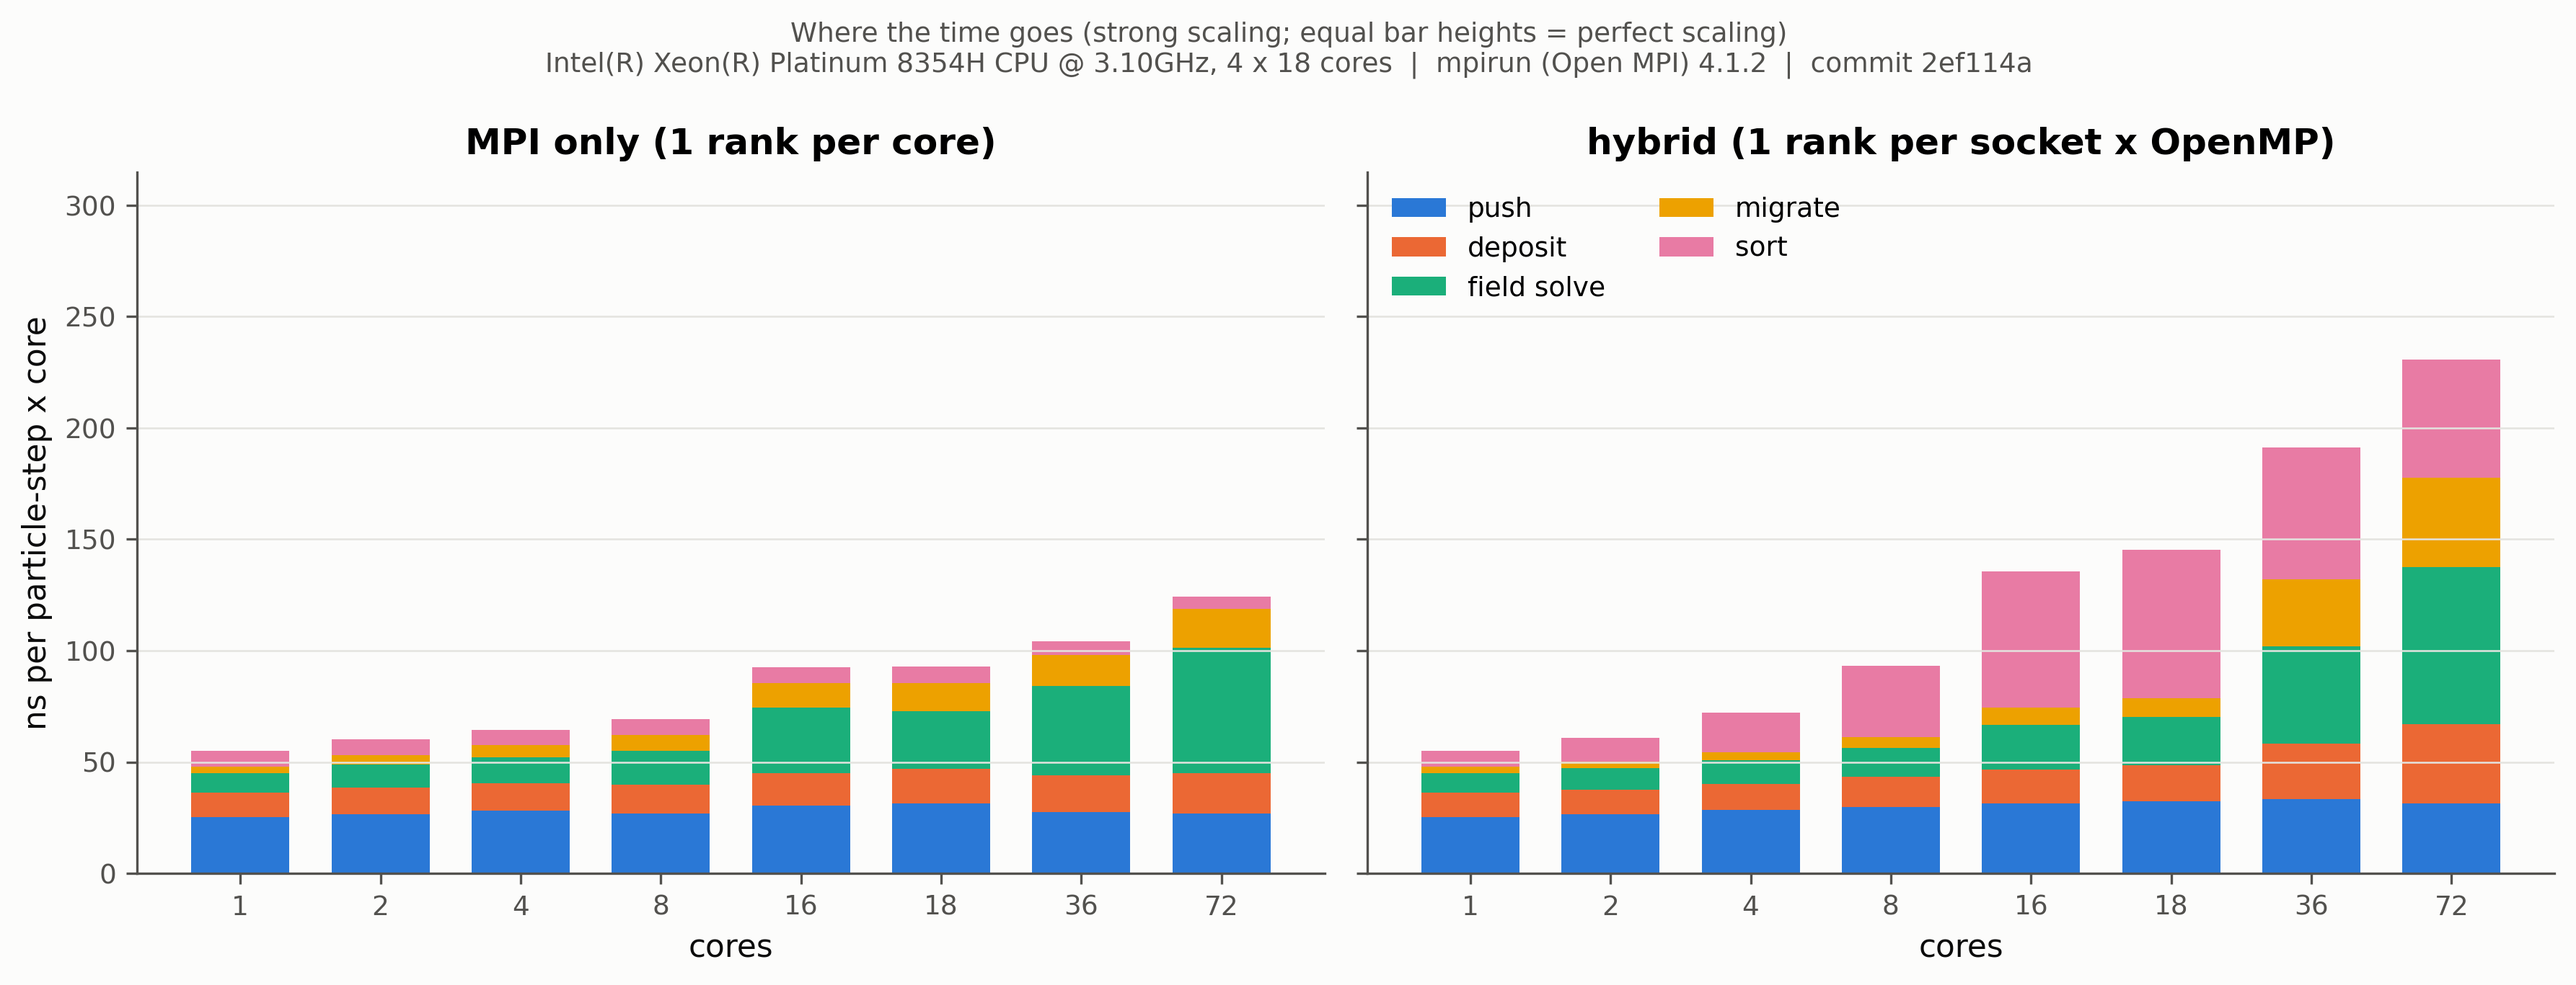
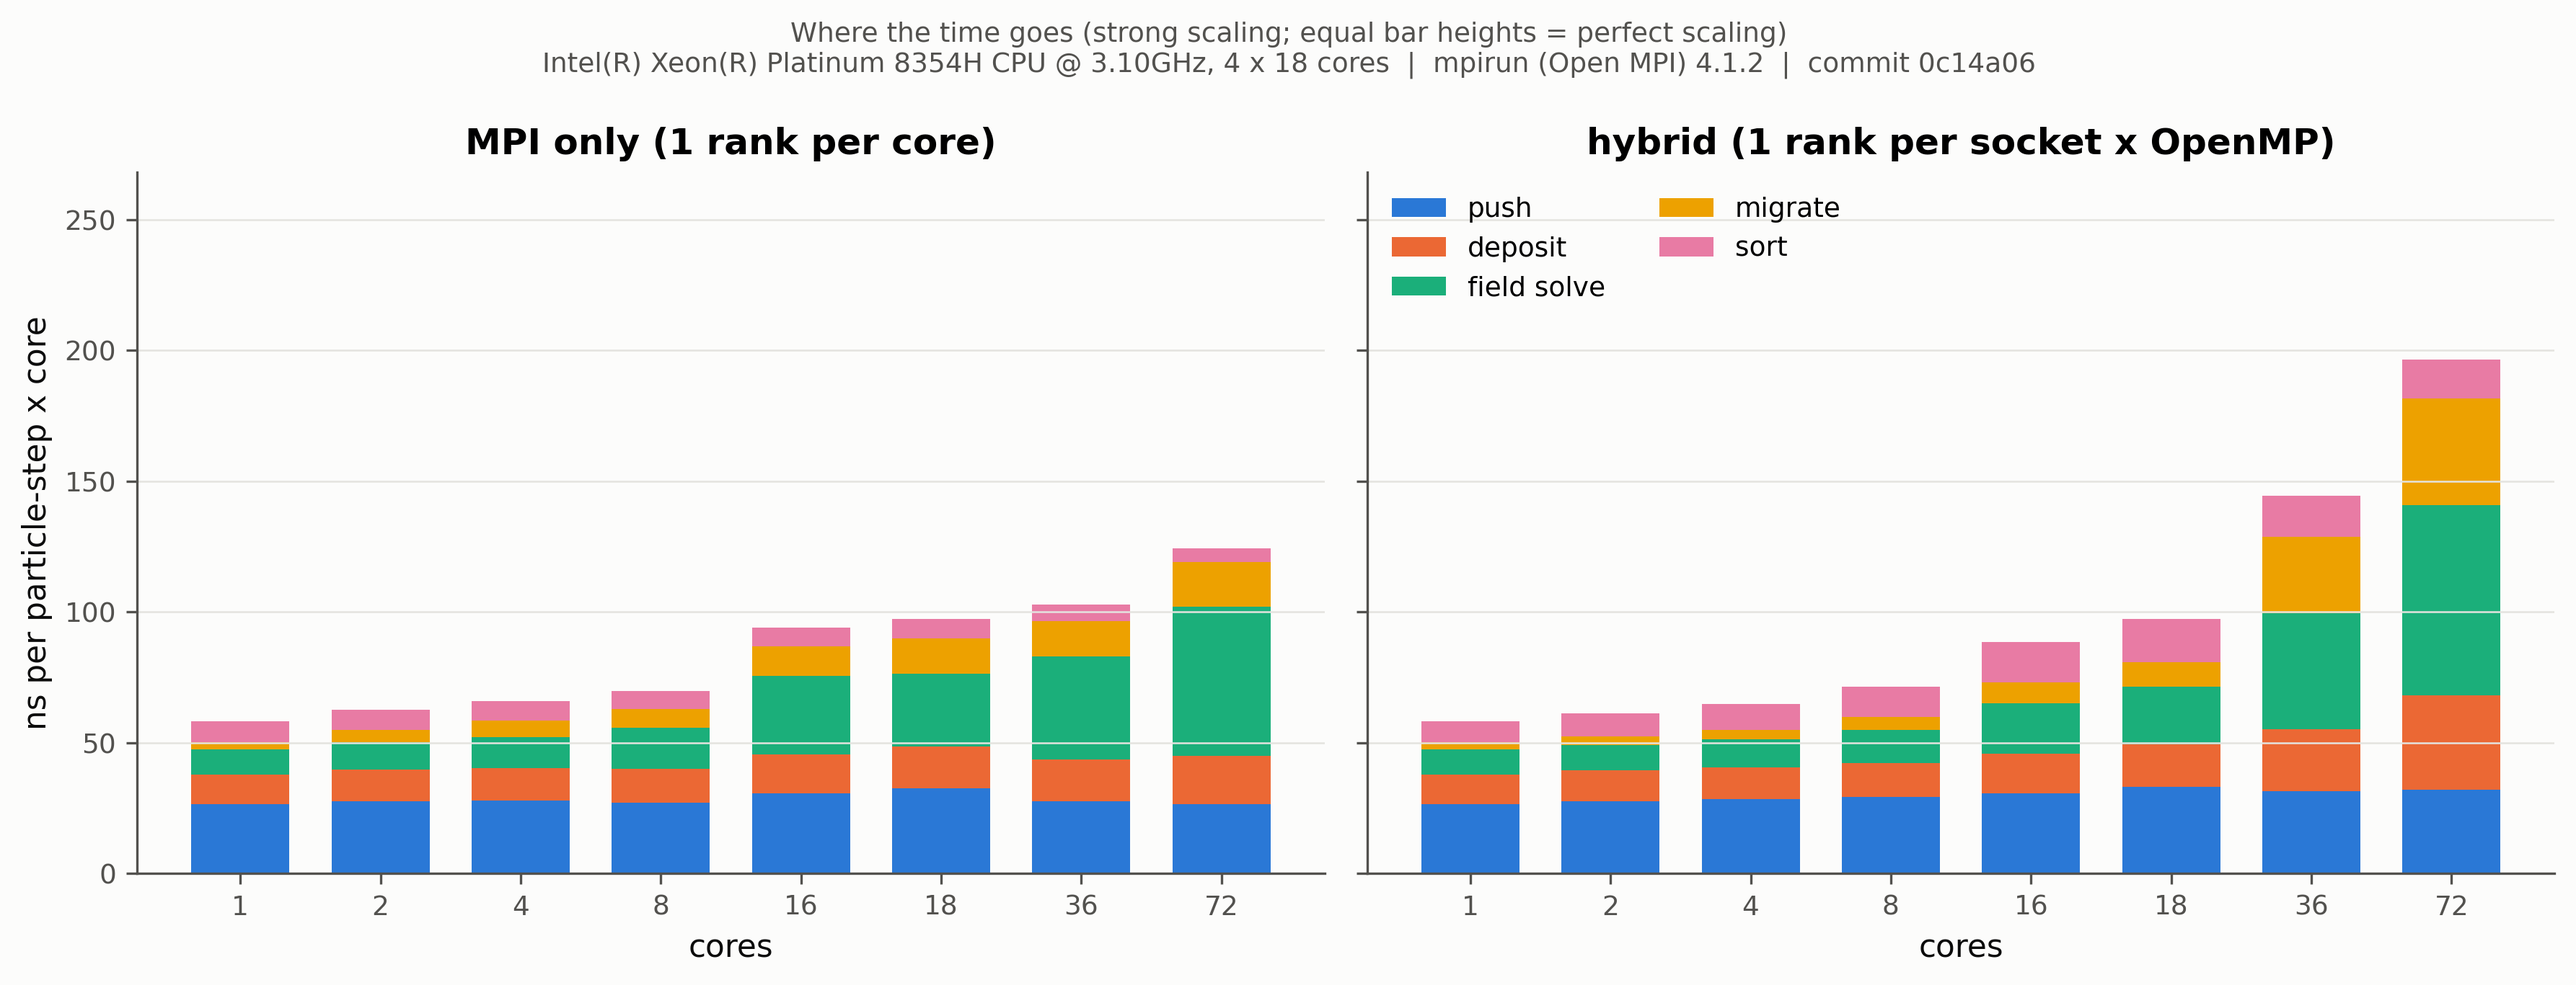
Scaling sweep with the parallel sort; before/after comparison
Full strong and weak sweep on the 4 x 18-core Xeon Platinum 8354H at
0c14a06 (machine otherwise idle). The MPI-only points, unaffected by the
sort change, reproduce the previous sweep to within 1-5% (159 vs 160 ms
at 72 cores). With the parallel sort, one rank of 18 threads steps in
516 instead of 771 ms, hybrid on 72 cores in 249 instead of 293 ms and
OpenMP-only on 72 threads in 520 instead of 702 ms; MPI only remains
fastest across sockets (160 ms, 35x over one core).

The previous results move to before_2ef114a/ and feed the new
scaling_before_after.png. docs/performance.md and the README are updated
to the new numbers; the remaining hybrid gap across sockets is traced to
the serial handling of migrating particles and the full-subdomain
reduction of the per-thread deposition buffers.

diff --git a/docs/performance.md b/docs/performance.md
@@ -38,8 +38,10 @@ Three ways of using the cores are compared:
   OpenMP only up to 18 cores);
 * **OpenMP only**: a single rank whose threads span all sockets.
 
-The machine is shared; each point is the faster of two runs. Points repeated in a separate
-session agreed to within 3–8 %.
+The machine is shared; each point is the faster of two runs, taken while the machine was otherwise
+idle. The MPI-only points, which the sort change below does not affect, reproduced an earlier sweep
+to within 1–5 % (159 vs 160 ms at 72 cores); the single-core reference differed by 6 % between the
+two sessions (5.26 vs 5.57 s), which shifts speed-ups but not absolute times.
 
 ## Strong scaling
 
@@ -48,15 +50,16 @@ session agreed to within 3–8 %.
 | cores | MPI only | | hybrid | | OpenMP only | |
 |---:|---:|---:|---:|---:|---:|---:|
 | | ms/step | speed-up | ms/step | speed-up | ms/step | speed-up |
-| 1 | 5263 | 1.0 | 5263 | 1.0 | 5263 | 1.0 |
-| 8 | 807 | 6.5 | 1111 | 4.7 | 1111 | 4.7 |
-| 18 | 475 | 11.1 | 771 | 6.8 | 771 | 6.8 |
-| 36 | 267 | 19.7 | 495 | 10.6 | 675 | 7.8 |
-| 72 | **159** | **33.1** | 293 | 18.0 | 702 | 7.5 |
+| 1 | 5572 | 1.0 | 5572 | 1.0 | 5572 | 1.0 |
+| 8 | 816 | 6.8 | 854 | 6.5 | 854 | 6.5 |
+| 18 | 494 | 11.3 | 516 | 10.8 | 516 | 10.8 |
+| 36 | 262 | 21.3 | 375 | 14.9 | 535 | 10.4 |
+| 72 | **160** | **34.8** | 249 | 22.4 | 520 | 10.7 |
 
-One core advances a particle by one step in 55 ns, including its share of the field solve. With one
-MPI rank per core the code reaches a speed-up of 33 on 72 cores (46 % efficiency); a step with
-96 M particles takes 0.16 s.
+One core advances a particle by one step in 58 ns, including its share of the field solve. With one
+MPI rank per core the code reaches a speed-up of 35 on 72 cores (48 % efficiency); a step with
+96 M particles takes 0.16 s. Within one socket the layouts are close: one rank of 18 threads is 4 %
+slower than 18 MPI ranks.
 
 ## Where the time goes
 
@@ -72,34 +75,34 @@ scaling they would all have the height of the 1-core bar.
   ranks) and a larger coarsest grid that is smoothed rather than solved. The CG iteration count
   stays at 6–7, so convergence is not the issue; the coarse-level work and the global reductions
   per iteration are.
-* **Sort.** The periodic cell sort is a counting sort whose histogram and scatter passes run on one
-  thread per rank. With MPI only, every rank sorts its own particles and the cost shrinks with the
-  rank count. Within a threaded rank it barely shrinks: with one rank of 18 threads, sorting takes
-  353 ms of a 771 ms step. This was the main reason the hybrid layout trailed MPI only; the sort
-  is now threaded (see [Parallel cell sort](#parallel-cell-sort-after-these-measurements)).
-* **Migrate** (moving particles between ranks) grows with the number of rank boundaries but stays
-  at or below 15 % of the step.
+* **Sort.** The periodic cell sort is threaded (see [Parallel cell sort](#parallel-cell-sort)); it
+  now scales in both layouts and takes 4–8 % of the step.
+* **Across sockets, hybrid ranks** spend more time than MPI-only ranks in migration (54 vs 23 ms
+  per step at 72 cores), deposition (48 vs 25 ms) and the field solve (97 vs 76 ms). In the
+  migration, finding the particles that leave a rank is threaded, but their boundary handling,
+  removal, packing and unpacking run on one thread per rank; the threaded deposition sums one
+  buffer per thread over the whole subdomain. Both cost more when a rank is large.
 
 ## Weak scaling
 
 ![Weak scaling](media/scaling_weak.png)
 
-With a fixed 48³ cells and 3.5 M particles per core, the MPI-only time per step rises from 159 ms
-on one core to 371 ms on 72 cores (43 % weak-scaling efficiency). The increase has three parts:
+With a fixed 48³ cells and 3.5 M particles per core, the MPI-only time per step rises from 169 ms
+on one core to 372 ms on 72 cores (45 % weak-scaling efficiency). The increase has three parts:
 
 * **Filling a socket** (8 → 18 cores): push and deposit per core rise by about 25 % (push 82 →
-  102 ms) as the cores of a socket share its memory bandwidth, which no layout can avoid. Across
-  sockets the push stays nearly flat (102 → 109 ms), as each socket brings its own memory channels.
-* **Field solve**: 27 → 122 ms, for the reasons above.
-* **Rank boundaries**: migration grows from 40 to 68 ms and deposition (which includes the halo
-  exchange of the charge density) from 53 to 68 ms between 18 and 72 cores.
+  105 ms) as the cores of a socket share its memory bandwidth, which no layout can avoid. Across
+  sockets the push stays flat (105 → 106 ms), as each socket brings its own memory channels.
+* **Field solve**: 29 → 121 ms, for the reasons above.
+* **Rank boundaries**: migration grows from 41 to 67 ms and deposition (which includes the halo
+  exchange of the charge density) from 55 to 69 ms between 18 and 72 cores.
 
 ## Choosing ranks and threads
 
-* **Prefer one MPI rank per core.** In the measurements above it is 1.8 times faster than one
-  rank per socket with threads, and 4.4 times faster than a single rank on all cores. With the
-  threaded sort, one rank of 18 threads on a socket is about 5 % slower than 18 MPI ranks, so threads are
-  now a reasonable choice when fewer ranks are wanted (memory per rank, fewer halo cells).
+* **Prefer one MPI rank per core across sockets.** At 72 cores it is 1.6 times faster than one rank
+  per socket with threads (160 vs 249 ms), and 3.3 times faster than a single rank on all cores.
+  Within one socket, threads are a reasonable choice (4 % slower than MPI ranks) when fewer ranks
+  are wanted, for example to reduce memory per rank or the number of halo cells.
 * **Never let one rank's threads span sockets.** The OpenMP-only curve stops improving beyond one
   socket (36 and 72 threads are no faster than 18) because threads read memory attached to other
   sockets. If you use threads, use at least one rank per NUMA domain
@@ -110,36 +113,41 @@ on one core to 371 ms on 72 cores (43 % weak-scaling efficiency). The increase h
   at each level. A grid such as 144³ (divisible by 2, 3, 4, 6, 8, 9, 12, 16, 18, 24, 36, 48, 72)
   keeps 3 to 5 levels for any rank count used here; the start-up log prints the number of levels.
 
-## Solver threading (this release)
+## Solver threading
 
-The measurements above include a change to the multigrid solver: several per-iteration passes over
-the grid (mean projection for periodic problems, masking of fixed nodes, field copies, the halo
-pack and unpack and the set-up of the right-hand side) ran on one thread. They are now threaded.
-For a 128³ periodic grid on one socket, the field solve dropped from 223 ms to 73 ms per step with
-18 threads, and its 18-thread speed-up rose from 2.7 to 8.1. Single-thread performance and
-results are unchanged; with one thread per rank, restarts remain bit-identical.
+Several per-iteration passes of the multigrid solver over the grid (mean projection for periodic
+problems, masking of fixed nodes, field copies, the halo pack and unpack and the set-up of the
+right-hand side) used to run on one thread. They are now threaded. For a 128³ periodic grid on one
+socket, the field solve dropped from 223 ms to 73 ms per step with 18 threads, and its 18-thread
+speed-up rose from 2.7 to 8.1. Single-thread performance and results are unchanged; with one thread
+per rank, restarts remain bit-identical.
 
-## Parallel cell sort (after these measurements)
+## Parallel cell sort
 
-The figures above were measured before the cell sort was threaded. The sort is now a parallel
-stable counting sort: every chunk of particles gets its own histogram, and the write offsets run
-cell by cell and, within a cell, chunk by chunk, so the particle order is exactly the one the
-serial sort produced, for any thread count (checked in `test_particles`). Measured on one socket
-of the same machine (same 144³ strong-scaling problem; the 18 MPI-rank reference reproduced the
-earlier value to within 2 %):
+The cell sort is a parallel stable counting sort: every chunk of particles gets its own histogram,
+and the write offsets run cell by cell and, within a cell, chunk by chunk, so the particle order is
+exactly the one the serial sort produced, for any thread count (checked in `test_particles`).
+Before, its histogram and scatter passes ran on one thread per rank.
 
-| one rank | sort before | sort after | step before | step after |
+![Sort before and after](media/scaling_before_after.png)
+
+Dotted lines: the sweep before the change (commit 2ef114a); solid lines: after (0c14a06).
+
+| strong scaling, 144³ cells | sort before | sort after | step before | step after |
 |---|---:|---:|---:|---:|
-| 8 threads | 380 ms | 136 ms | 1111 ms | 844 ms |
-| 16 threads | 365 ms | 90 ms | 809 ms | 525 ms |
-| 18 threads | 353 ms | 85 ms | 771 ms | 508 ms |
-| *18 MPI ranks (reference)* | *39 ms* | *38 ms* | *475 ms* | *483 ms* |
+| 1 rank × 18 threads | 353 ms | 87 ms | 771 ms | 516 ms |
+| hybrid, 2 × 18 | 158 ms | 42 ms | 495 ms | 375 ms |
+| hybrid, 4 × 18 | 70 ms | 20 ms | 293 ms | 249 ms |
+| OpenMP only, 72 threads | 360 ms | 82 ms | 702 ms | 520 ms |
+| *MPI only, 72 ranks (unaffected)* | *7 ms* | *7 ms* | *159 ms* | *160 ms* |
 
-Times are per step; the sort runs every 20 steps and its cost is averaged over all steps. The
-multi-socket points of that run were taken while other jobs loaded the machine and are not shown;
-the figures will be regenerated from a full sweep on a quiet machine.
+Times are per step; the sort runs every 20 steps and its cost is averaged over all steps. In weak
+scaling the hybrid layout on 72 cores went from 771 to 605 ms per step.
 
 ## Known limitations and next steps
 
 * Agglomerate the coarse multigrid levels onto fewer ranks so that the hierarchy no longer becomes
   shallower as ranks are added.
+* Thread the boundary handling, packing and unpacking of migrating particles, and sum the per-thread deposition
+  buffers over the touched region only, to close the remaining gap between hybrid and MPI-only
+  ranks across sockets.

diff --git a/README.md b/README.md
@@ -500,10 +500,10 @@ The `ctest` suite runs every test serially and on 4 MPI ranks:
 </p>
 
 On a four-socket Xeon Platinum 8354H node (72 cores), a 144³ grid with 96 M particles runs at
-5.3 s per step on one core and 0.16 s per step on 72 MPI ranks, a speed-up of 33. One MPI rank per
-core was the fastest layout in this sweep, and threads should never span sockets. The field solve
-limits scaling; the cell sort, which held back threaded ranks, has since been parallelised (one
-rank of 18 threads is now about 5 % slower than 18 MPI ranks). [docs/performance.md](docs/performance.md) has the
+5.6 s per step on one core and 0.16 s per step on 72 MPI ranks, a speed-up of 35. One MPI rank per
+core is the fastest layout across sockets; within a socket, one rank of 18 threads is 4 % slower
+than 18 MPI ranks. Threads should never span sockets. The field solve limits scaling.
+[docs/performance.md](docs/performance.md) has the
 strong- and weak-scaling results, a per-stage breakdown and advice on choosing ranks and threads;
 [`benchmarks/scaling`](benchmarks/scaling) reruns the benchmark on any machine.
 
